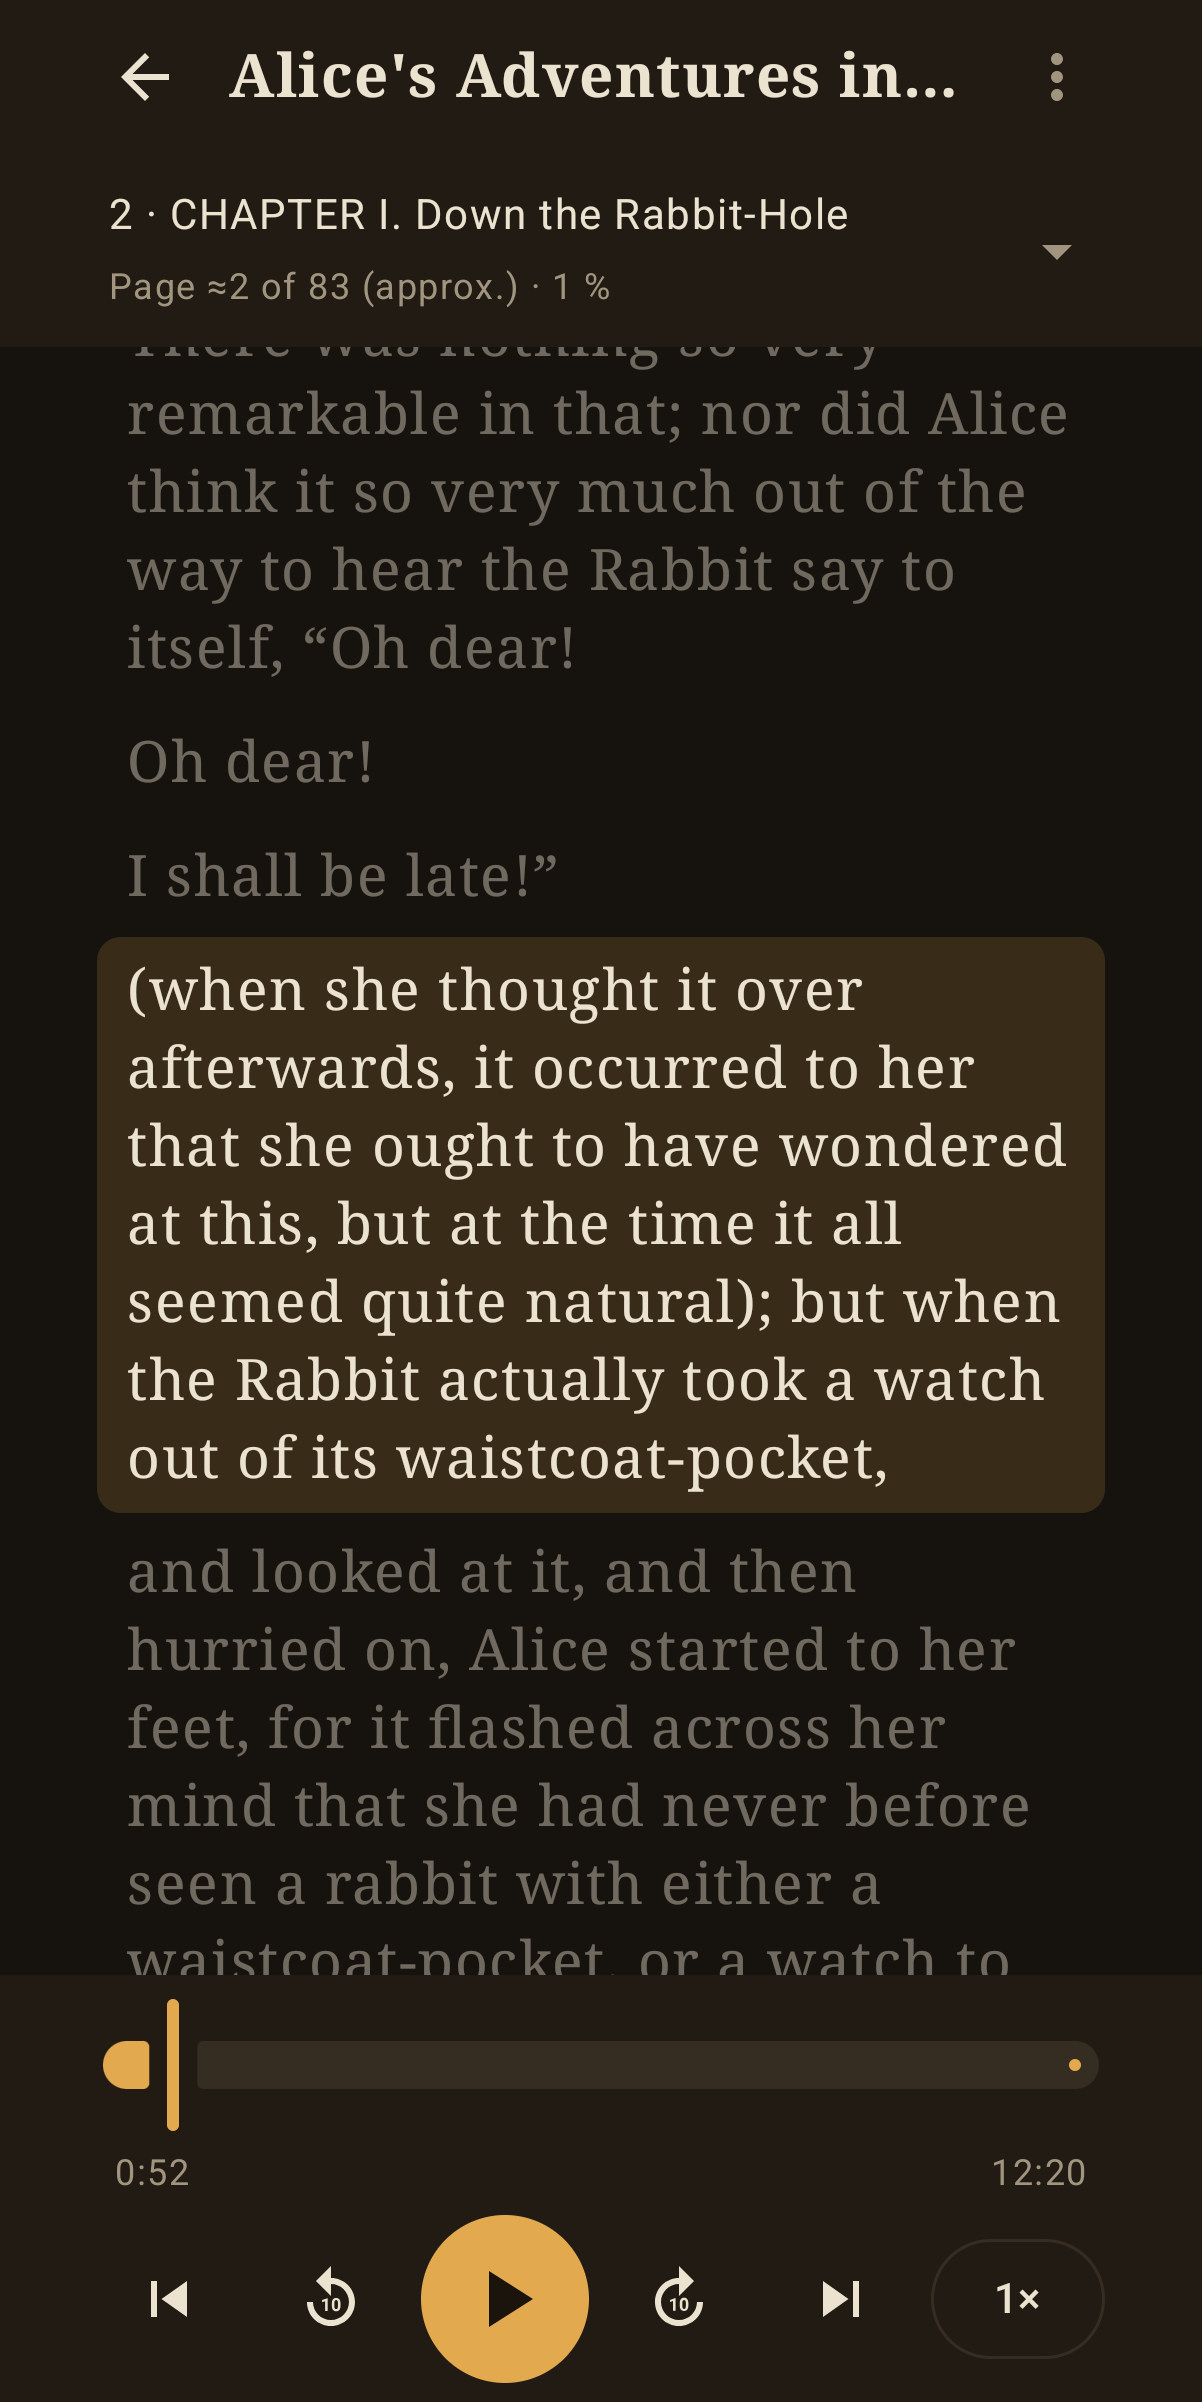
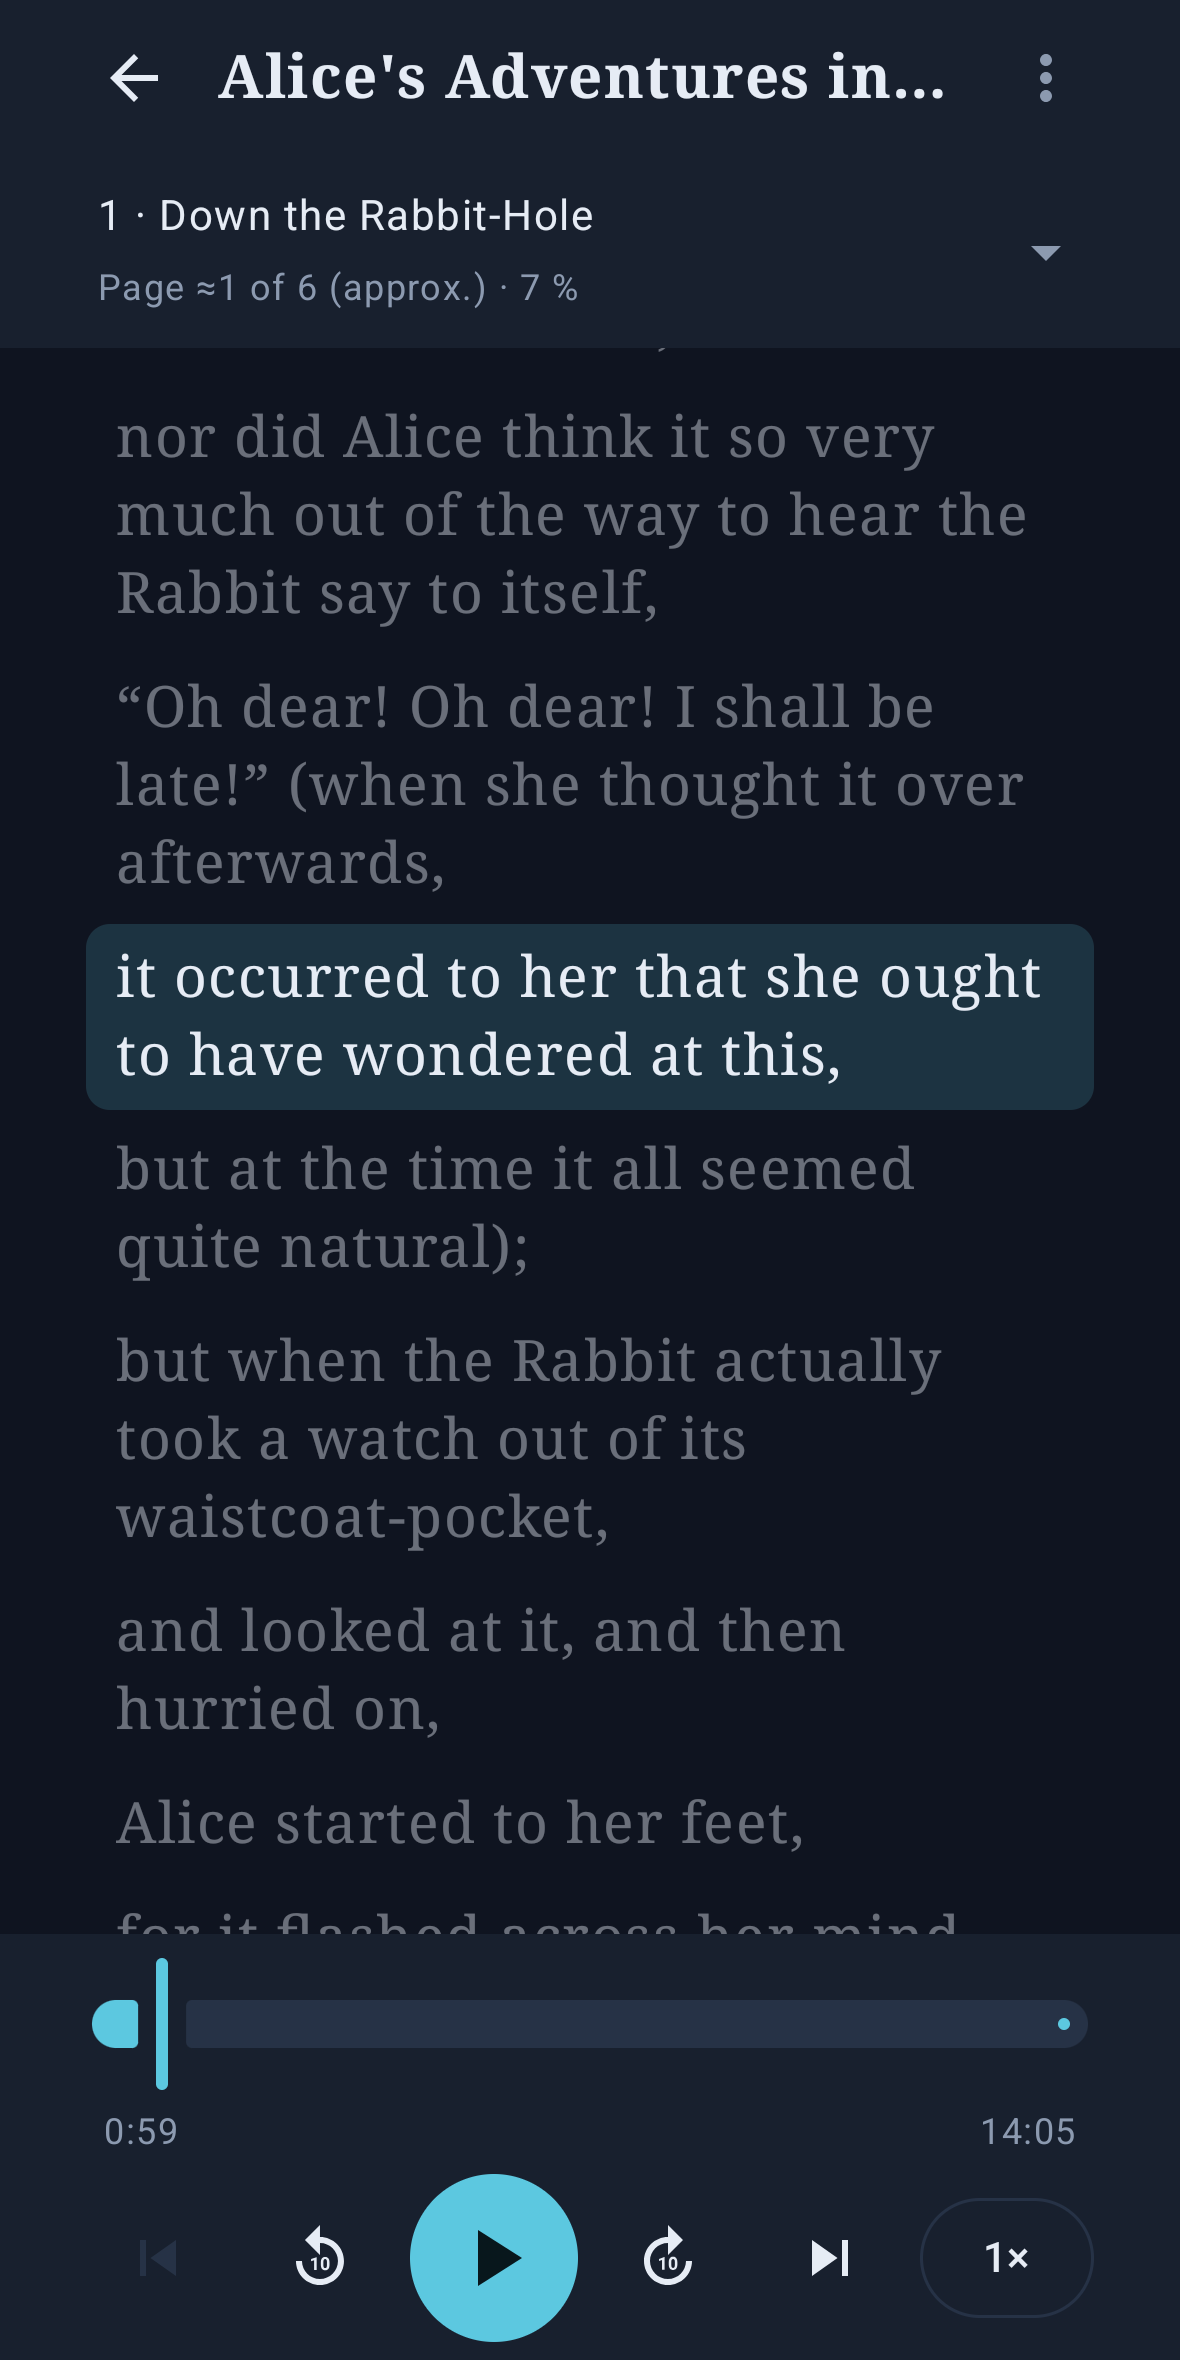
Versión 1.1.1: colores azul noche y cian, y capturas nuevas de la ficha
Paleta nueva (Night #0F1420, Panel #18202E, Accent #5CC8E0); Amber pasa a llamarse Accent.
Capturas de la ficha en inglés y español rehechas en el emulador con datos de demostración.
Notas de la versión (changelogs/4.txt) en los 15 idiomas.

Claude-Session: https://claude.ai/code/session_01St6UgoJ9Tu9E6GrvcsKFgy

diff --git a/app/src/main/java/com/javimetallab/storyteller/ui/PlayerScreen.kt b/app/src/main/java/com/javimetallab/storyteller/ui/PlayerScreen.kt
@@ -124,7 +124,7 @@ fun PlayerScreen(vm: AppViewModel) {
         }
         when {
             ui.loading -> Box(Modifier.weight(1f).fillMaxWidth()) {
-                CircularProgressIndicator(Modifier.align(Alignment.Center), color = Amber)
+                CircularProgressIndicator(Modifier.align(Alignment.Center), color = Accent)
             }
             ui.failed || ui.chapters.isEmpty() -> Box(Modifier.weight(1f).fillMaxWidth()) {
                 Text(stringResource(R.string.cant_open_book), color = Muted, modifier = Modifier.align(Alignment.Center).padding(32.dp))
@@ -183,7 +183,7 @@ private fun PageLine(page: String?, status: String?) {
     Layout(content = {
         if (page != null) Text(page, color = Muted, fontSize = 12.sp, maxLines = 1, overflow = TextOverflow.Ellipsis)
         if (page != null && status != null) Text("  ·  ", color = Muted, fontSize = 12.sp, maxLines = 1)
-        if (status != null) Text(status, color = Amber, fontSize = 12.sp, maxLines = 1, overflow = TextOverflow.Ellipsis)
+        if (status != null) Text(status, color = Accent, fontSize = 12.sp, maxLines = 1, overflow = TextOverflow.Ellipsis)
     }) { measurables, constraints ->
         val parts = measurables.map { it.measure(constraints.copy(minWidth = 0)) }
         if (parts.size == 1) return@Layout layout(parts[0].width, parts[0].height) { parts[0].place(0, 0) }
@@ -296,7 +296,7 @@ private fun Controls(ui: PlayerUi, vm: AppViewModel) {
                 vm.player.seekTo(dragValue.toLong())
                 dragging = false
             },
-            colors = SliderDefaults.colors(thumbColor = Amber, activeTrackColor = Amber, inactiveTrackColor = Line),
+            colors = SliderDefaults.colors(thumbColor = Accent, activeTrackColor = Accent, inactiveTrackColor = Line),
         )
         Row(Modifier.fillMaxWidth().padding(horizontal = 6.dp), verticalAlignment = Alignment.CenterVertically) {
             Text(Format.time(shownPos), color = Muted, fontSize = 12.sp)
@@ -316,15 +316,15 @@ private fun Controls(ui: PlayerUi, vm: AppViewModel) {
             }
             IconButton(
                 onClick = vm.player::playPause,
-                modifier = Modifier.size(56.dp).background(Amber, CircleShape),
+                modifier = Modifier.size(56.dp).background(Accent, CircleShape),
             ) {
                 if (ui.buffering && !ui.playing) {
-                    CircularProgressIndicator(Modifier.size(24.dp), color = OnAmber, strokeWidth = 2.dp)
+                    CircularProgressIndicator(Modifier.size(24.dp), color = OnAccent, strokeWidth = 2.dp)
                 } else {
                     Icon(
                         if (ui.playing) Icons.Filled.Pause else Icons.Filled.PlayArrow,
                         stringResource(if (ui.playing) R.string.pause else R.string.play),
-                        tint = OnAmber, modifier = Modifier.size(32.dp),
+                        tint = OnAccent, modifier = Modifier.size(32.dp),
                     )
                 }
             }
@@ -365,7 +365,7 @@ private fun SpeedPicker(speed: Float, onPick: (Float) -> Unit) {
         ) {
             for (s in Format.SPEEDS) {
                 DropdownMenuItem(
-                    text = { Text(Format.speedLabel(s), color = if (s == speed) Amber else Ink) },
+                    text = { Text(Format.speedLabel(s), color = if (s == speed) Accent else Ink) },
                     onClick = {
                         open = false
                         onPick(s)
@@ -388,7 +388,7 @@ private fun ChapterDialog(ui: PlayerUi, onPick: (Int) -> Unit, onDismiss: () -> 
                 itemsIndexed(ui.chapters) { i, c ->
                     Text(
                         chapterLabel(c) + " · " + Format.time((c.duration * 1000).toLong()),
-                        color = if (i == ui.index) Amber else Ink,
+                        color = if (i == ui.index) Accent else Ink,
                         modifier = Modifier.fillMaxWidth().clickable { onPick(i) }.padding(vertical = 10.dp),
                     )
                 }

diff --git a/app/src/main/java/com/javimetallab/storyteller/ui/Common.kt b/app/src/main/java/com/javimetallab/storyteller/ui/Common.kt
@@ -60,21 +60,21 @@ import java.text.DateFormat
 import java.util.Date
 
 // The colours of the desktop app.
-val Night = Color(0xFF16120D)
-val Panel = Color(0xFF211B13)
-val Line = Color(0xFF352D22)
-val Ink = Color(0xFFECE2D0)
-val Muted = Color(0xFFA2957F)
-val Amber = Color(0xFFE3A94F)
-val OnAmber = Color(0xFF1A140C)
+val Night = Color(0xFF0F1420)
+val Panel = Color(0xFF18202E)
+val Line = Color(0xFF263246)
+val Ink = Color(0xFFE6ECF5)
+val Muted = Color(0xFF8C9AB0)
+val Accent = Color(0xFF5CC8E0)
+val OnAccent = Color(0xFF08171C)
 val Danger = Color(0xFFFF8A80)
-val ActiveCue = Amber.copy(alpha = 0.17f)
+val ActiveCue = Accent.copy(alpha = 0.17f)
 
 @Composable
 fun StorytellerTheme(content: @Composable () -> Unit) {
     MaterialTheme(
         colorScheme = darkColorScheme(
-            primary = Amber, onPrimary = OnAmber, secondary = Amber, onSecondary = OnAmber,
+            primary = Accent, onPrimary = OnAccent, secondary = Accent, onSecondary = OnAccent,
             background = Night, onBackground = Ink, surface = Night, onSurface = Ink,
             surfaceVariant = Panel, onSurfaceVariant = Muted, outline = Line, error = Danger,
             surfaceContainer = Panel, surfaceContainerHigh = Panel, surfaceContainerHighest = Panel,
@@ -196,7 +196,7 @@ fun PrimaryButton(text: String, enabled: Boolean = true, modifier: Modifier = Mo
     Button(
         onClick = onClick, enabled = enabled, modifier = modifier,
         colors = ButtonDefaults.buttonColors(
-            containerColor = Amber, contentColor = OnAmber, disabledContainerColor = Line, disabledContentColor = Muted,
+            containerColor = Accent, contentColor = OnAccent, disabledContainerColor = Line, disabledContentColor = Muted,
         ),
         shape = RoundedCornerShape(10.dp),
     ) { Text(text, fontWeight = FontWeight.SemiBold, textAlign = TextAlign.Center) }
@@ -266,10 +266,10 @@ fun JobPanel(vm: AppViewModel, job: JobState, queued: Int) {
         Text(jobText(job), color = Muted, fontSize = 13.sp, modifier = Modifier.padding(vertical = 4.dp))
         if (job.pct >= 0) {
             LinearProgressIndicator(
-                progress = { job.pct / 100f }, modifier = Modifier.fillMaxWidth(), color = Amber, trackColor = Night,
+                progress = { job.pct / 100f }, modifier = Modifier.fillMaxWidth(), color = Accent, trackColor = Night,
             )
         } else {
-            LinearProgressIndicator(Modifier.fillMaxWidth(), color = Amber, trackColor = Night)
+            LinearProgressIndicator(Modifier.fillMaxWidth(), color = Accent, trackColor = Night)
         }
         Row(Modifier.fillMaxWidth().padding(top = 2.dp), horizontalArrangement = Arrangement.End) {
             TextButton(onClick = { vm.stopJob(save = true) }, enabled = !job.stopping) { Text(stringResource(R.string.stop_and_save)) }

diff --git a/app/src/main/java/com/javimetallab/storyteller/ui/ModelsScreen.kt b/app/src/main/java/com/javimetallab/storyteller/ui/ModelsScreen.kt
@@ -173,10 +173,10 @@ private fun ModelCard(vm: AppViewModel, c: Capability, title: String, help: Stri
                 }
                 Switch(
                     checked = e.qc, onCheckedChange = { change(e.copy(qc = it)) },
-                    colors = SwitchDefaults.colors(checkedTrackColor = Amber, checkedThumbColor = OnAmber),
+                    colors = SwitchDefaults.colors(checkedTrackColor = Accent, checkedThumbColor = OnAccent),
                 )
             }
-            TextButton(onClick = { vm.go(Screen.Pron) }) { Text(stringResource(R.string.pron_title), color = Amber) }
+            TextButton(onClick = { vm.go(Screen.Pron) }) { Text(stringResource(R.string.pron_title), color = Accent) }
         }
         if (c != Capability.TRANSCRIPTION) {
             Text(stringResource(R.string.field_parallel), color = Muted, fontSize = 13.sp, modifier = Modifier.padding(top = 8.dp))
@@ -185,7 +185,7 @@ private fun ModelCard(vm: AppViewModel, c: Capability, title: String, help: Stri
                     FilterChip(
                         selected = k == e.parallel, onClick = { change(e.copy(parallel = k)) }, label = { Text("$k") },
                         colors = FilterChipDefaults.filterChipColors(
-                            selectedContainerColor = Amber, selectedLabelColor = OnAmber, labelColor = Ink,
+                            selectedContainerColor = Accent, selectedLabelColor = OnAccent, labelColor = Ink,
                         ),
                     )
                 }
@@ -199,7 +199,7 @@ private fun ModelCard(vm: AppViewModel, c: Capability, title: String, help: Stri
             ) { vm.testModel(c, e) }
         }
         tests[c]?.let { r ->
-            Text(r.text, color = if (r.ok) Amber else Danger, fontSize = 13.sp, modifier = Modifier.padding(top = 6.dp))
+            Text(r.text, color = if (r.ok) Accent else Danger, fontSize = 13.sp, modifier = Modifier.padding(top = 6.dp))
         }
     }
 }
@@ -221,7 +221,7 @@ private fun VoiceUpload(vm: AppViewModel, e: Endpoint, enabled: Boolean, onUploa
         failure = null
     }
     TextButton(enabled = enabled && !busy, onClick = { launcher.launch(arrayOf("audio/*")) }) {
-        Text(stringResource(if (busy) R.string.voice_uploading else R.string.voice_upload), color = if (enabled) Amber else Muted)
+        Text(stringResource(if (busy) R.string.voice_uploading else R.string.voice_upload), color = if (enabled) Accent else Muted)
     }
     Text(stringResource(R.string.voice_upload_help), color = Muted, fontSize = 12.sp)
     failure?.let { Text(it, color = Danger, fontSize = 13.sp, modifier = Modifier.padding(top = 4.dp)) }

diff --git a/app/src/main/java/com/javimetallab/storyteller/ui/LibraryScreen.kt b/app/src/main/java/com/javimetallab/storyteller/ui/LibraryScreen.kt
@@ -174,9 +174,9 @@ private fun BookCard(vm: AppViewModel, b: BookSummary, active: Boolean) {
                 color = Muted, fontSize = 13.sp, modifier = Modifier.padding(top = 2.dp),
             )
             when {
-                active -> Text(stringResource(R.string.book_working), color = Amber, fontSize = 12.sp, modifier = Modifier.padding(top = 2.dp))
-                inLine != null -> Text(stringResource(R.string.book_in_line), color = Amber, fontSize = 12.sp, modifier = Modifier.padding(top = 2.dp))
-                !b.complete -> Text(stringResource(R.string.book_partial, b.progress), color = Amber, fontSize = 12.sp, modifier = Modifier.padding(top = 2.dp))
+                active -> Text(stringResource(R.string.book_working), color = Accent, fontSize = 12.sp, modifier = Modifier.padding(top = 2.dp))
+                inLine != null -> Text(stringResource(R.string.book_in_line), color = Accent, fontSize = 12.sp, modifier = Modifier.padding(top = 2.dp))
+                !b.complete -> Text(stringResource(R.string.book_partial, b.progress), color = Accent, fontSize = 12.sp, modifier = Modifier.padding(top = 2.dp))
             }
             // Wraps: three buttons need about 300 dp, and a 360 dp phone leaves 268 here.
             FlowRow {
@@ -257,7 +257,7 @@ private fun MiniPlayer(vm: AppViewModel) {
         if (ui.durationMs > 0) {
             LinearProgressIndicator(
                 progress = { (ui.positionMs.toFloat() / ui.durationMs).coerceIn(0f, 1f) },
-                modifier = Modifier.fillMaxWidth(), color = Amber, trackColor = Line,
+                modifier = Modifier.fillMaxWidth(), color = Accent, trackColor = Line,
             )
         }
         Row(
@@ -271,7 +271,7 @@ private fun MiniPlayer(vm: AppViewModel) {
             IconButton(onClick = vm.player::playPause) {
                 Icon(
                     if (ui.playing) Icons.Filled.Pause else Icons.Filled.PlayArrow,
-                    stringResource(if (ui.playing) R.string.pause else R.string.play), tint = Amber,
+                    stringResource(if (ui.playing) R.string.pause else R.string.play), tint = Accent,
                 )
             }
         }

diff --git a/app/src/main/java/com/javimetallab/storyteller/ui/FormScreens.kt b/app/src/main/java/com/javimetallab/storyteller/ui/FormScreens.kt
@@ -75,7 +75,7 @@ private fun PickButton(label: String, chosen: String?, onClick: () -> Unit) {
         border = BorderStroke(1.dp, Line),
         shape = RoundedCornerShape(10.dp),
     ) {
-        Text(chosen ?: label, color = if (chosen == null) Amber else Ink, maxLines = 2, overflow = TextOverflow.Ellipsis)
+        Text(chosen ?: label, color = if (chosen == null) Accent else Ink, maxLines = 2, overflow = TextOverflow.Ellipsis)
     }
 }
 
@@ -137,7 +137,7 @@ fun NarrateScreen(vm: AppViewModel) {
                     }
                     Switch(
                         checked = prepare, onCheckedChange = { prepare = it },
-                        colors = SwitchDefaults.colors(checkedTrackColor = Amber, checkedThumbColor = OnAmber),
+                        colors = SwitchDefaults.colors(checkedTrackColor = Accent, checkedThumbColor = OnAccent),
                     )
                 }
                 PrimaryButton(
@@ -249,7 +249,7 @@ private fun TranslationCard(vm: AppViewModel, t: TranslationItem, running: Boole
         }
         Text(
             "${languageName(t.src)} → ${languageName(t.tgt)} · $state",
-            color = if (t.state == "done" && !running) Muted else Amber, fontSize = 13.sp, modifier = Modifier.padding(vertical = 2.dp),
+            color = if (t.state == "done" && !running) Muted else Accent, fontSize = 13.sp, modifier = Modifier.padding(vertical = 2.dp),
         )
         if (!running) {
             // Wraps instead of cutting a word in two: with three buttons in some languages they don't fit in a row.
